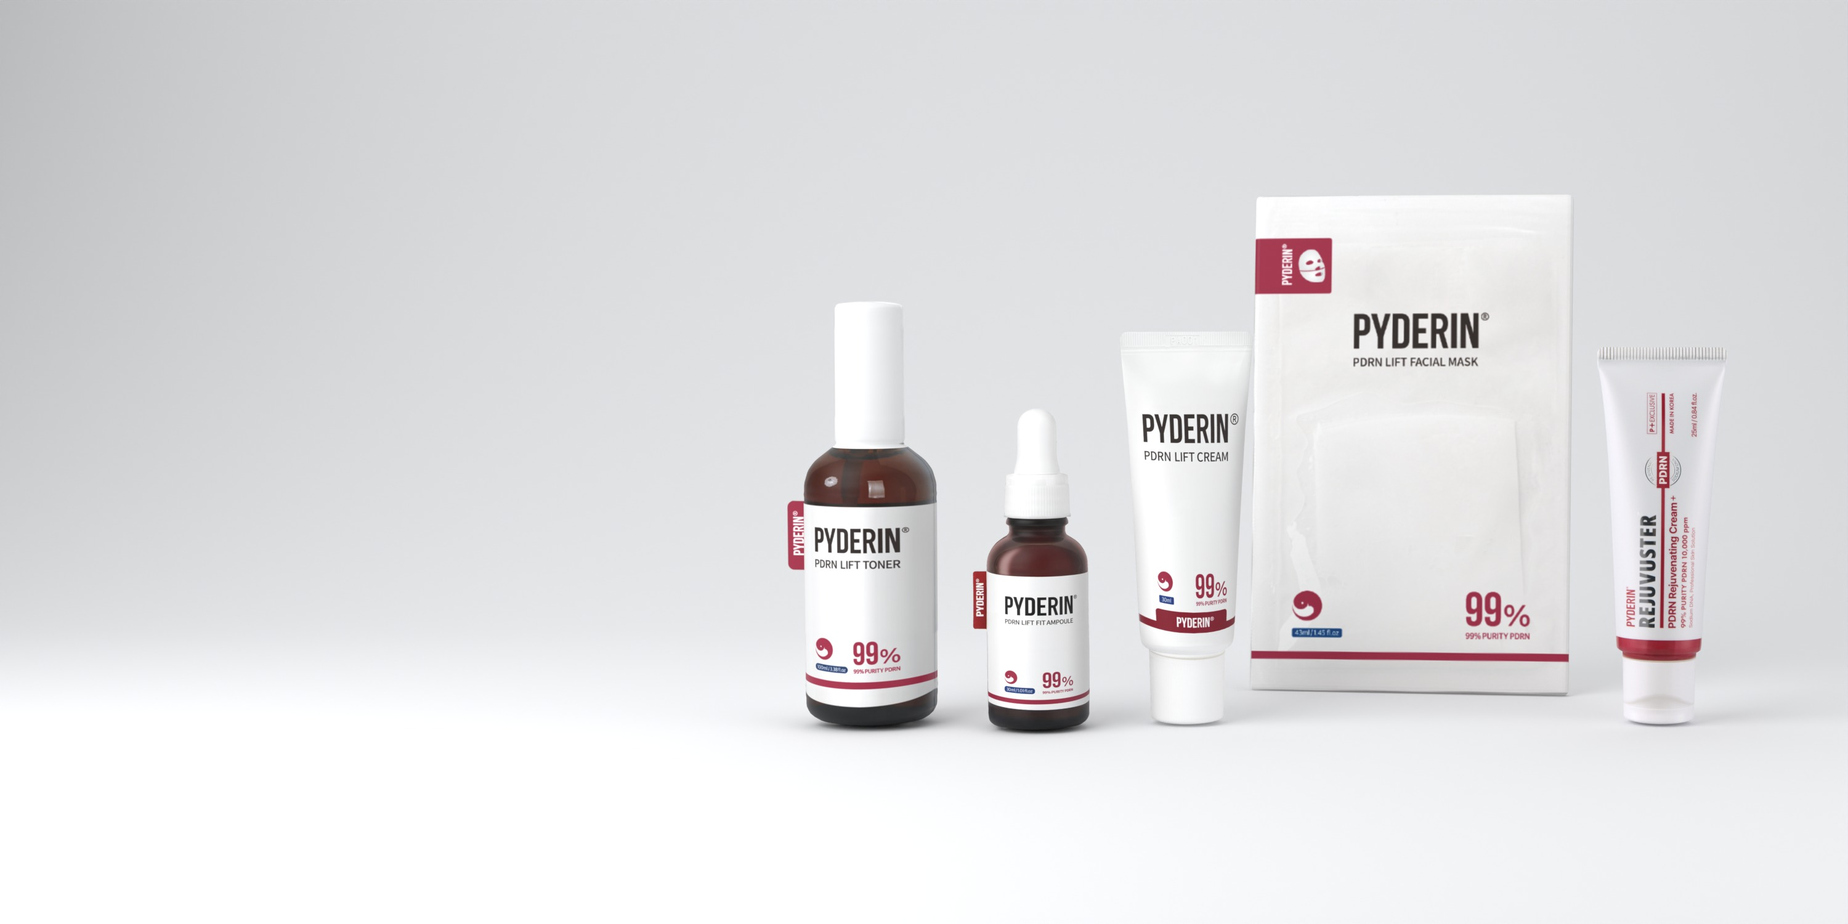
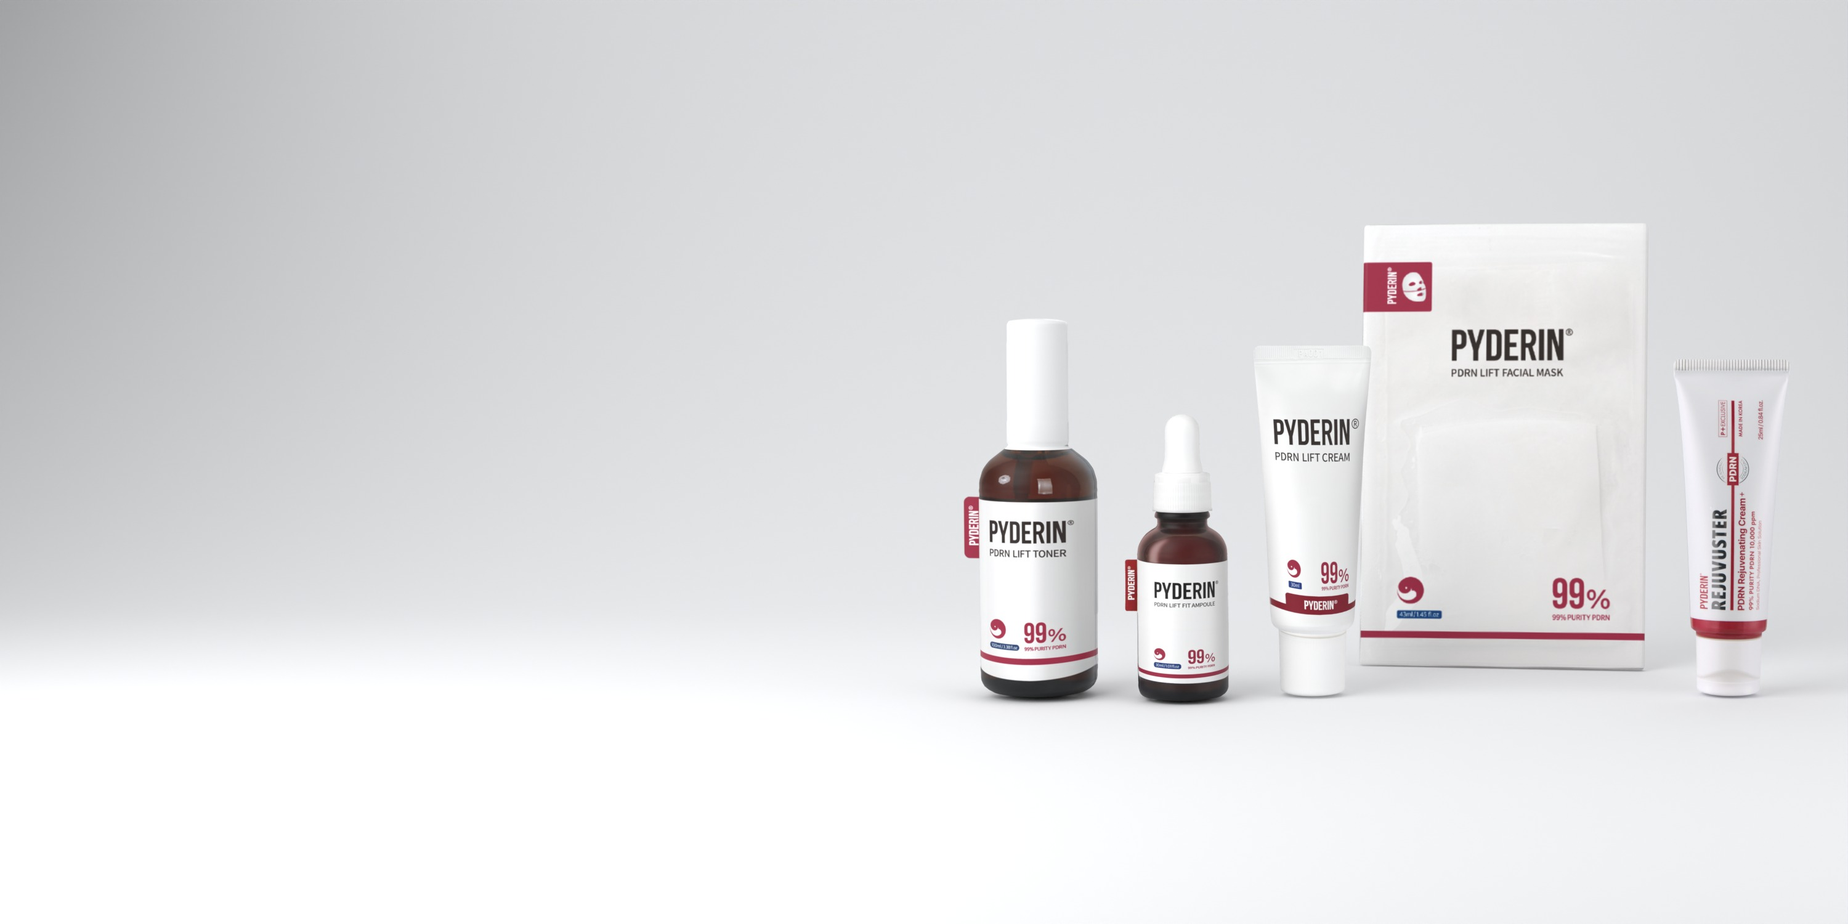
brandstore v5: 첫 화면 글·제품 간격(제품 52%부터), 줄바꿈 균형, 앰플 20,000ppm, 대표 제품 칸 크림 3D, Home 임상 분석 이미지

Changed region(s): [[0.403, 0.3067, 0.961, 0.7973], [0.682, 0.184, 0.961, 0.4293]]

diff --git a/brandstore-v5/store/lift.html b/brandstore-v5/store/lift.html
@@ -7,16 +7,17 @@
 <div class="banner rel" data-tile="첫 화면 배너 · 전체 폭 2:1(글 포함) → PDRN Lift 라인" data-d-only="1"><span class="qa-tag">3D 렌더 · 실제 라벨 사진 투영(새 토너·앰플·크림·마스크)</span><img class="d" src="img/r3_lift.jpg" alt=""><div class="tx"><div class="wrap"><div class="box"><span class="eyebrow">The Lift line</span><h1>PDRN Lift</h1><p>For elasticity and firmness. Four steps, built around 99% pure PDRN.<sup>1</sup></p><div class="cl"><div><b>+542%</b><span>Moisture after one use<br>PDRN Lift Cream<sup>2</sup></span></div><div><b>−42.31%</b><span>Nasolabial folds after 2 weeks<br>PDRN Lift Fit Ampoule<sup>3</sup></span></div></div><p class="fn">¹ Purity of Derbiome® PDRN 10K Sodium DNA. ² Korea Dermatology Research Institute, 2024.12.04–2025.01.09, 22 adult women aged 42–66. ³ Korea Dermatology Research Institute, 2024.10.08–2024.11.15, 21 adult women aged 44–65. Individual results may vary.</p></div></div></div><div class="txm" data-tile-m="모바일 첫 화면 글 · 전체 폭 → PDRN Lift 라인"><span class="eyebrow">The Lift line</span><h1>PDRN Lift</h1><p>For elasticity and firmness. Four steps, built around 99% pure PDRN.<sup>1</sup></p><div class="cl"><div><b>+542%</b><span>Moisture after one use<br>PDRN Lift Cream<sup>2</sup></span></div><div><b>−42.31%</b><span>Nasolabial folds after 2 weeks<br>PDRN Lift Fit Ampoule<sup>3</sup></span></div></div><p class="fn">¹ Purity of Derbiome® PDRN 10K Sodium DNA. ² Korea Dermatology Research Institute, 2024.12.04–2025.01.09, 22 adult women aged 42–66. ³ Korea Dermatology Research Institute, 2024.10.08–2024.11.15, 21 adult women aged 44–65. Individual results may vary.</p></div><img class="m" src="img/r3_lift_m.jpg" alt="" data-tile-m="모바일 첫 화면 사진 1:1 · 전체 폭 → PDRN Lift 라인"></div>
 <section><div class="wrap">
  <div class="head" data-tile="제목 · 전체 폭"><div><span class="eyebrow">The routine</span><h2>What each one does</h2></div><p>What goes into each step, and how to use it.</p></div>
- <div class="steps txt"><div class="rel" data-tile="4분의1 칸 → 상품 B0GX5ZGSGZ"><span class="qa-tag">3D 렌더 · 문구는 공식 상세페이지</span><img src="img/r3_toner_sq.jpg" alt=""><span class="step">STEP 01 · 100 ml</span><h3>PDRN Lift Toner</h3><p class="ing">99% pure PDRN 2,000ppm · 280 Dalton low molecular collagen · Acetyl Hexapeptide-8</p><p>After cleansing, apply an appropriate amount onto a cotton pad or your hands and gently absorb into the skin following its texture.</p></div><div class="rel" data-tile="4분의1 칸 → 상품 B0GYDZ1VTT"><span class="qa-tag">3D 렌더 · 문구는 공식 상세페이지</span><img src="img/r3_ampoule_sq.jpg" alt=""><span class="step">STEP 02 · 30 ml</span><h3>PDRN Lift Fit Ampoule</h3><p class="ing">99% pure PDRN 2,000ppm · 300 Dalton low molecular collagen · 9 types of firming peptides · 98% pure spicules</p><p>Shake the ampoule well before use. Apply an appropriate amount to the skin, then press and rub gently with your fingertips to aid absorption.</p></div><div class="rel" data-tile="4분의1 칸 → 상품 B0GXKPSZFK"><span class="qa-tag">3D 렌더 · 문구는 공식 상세페이지</span><img src="img/r3_cream_sq.jpg" alt=""><span class="step">STEP 03 · 30 ml</span><h3>PDRN Lift Cream</h3><p class="ing">99% pure PDRN 20,000ppm · Panthenol 20,000ppm · Super Centella 10,000ppm</p><p>Take an appropriate amount and apply generously to the skin, allowing it to absorb fully.</p></div><div class="rel" data-tile="4분의1 칸 → 상품 B0GZSR79Z4"><span class="qa-tag">3D 렌더 · 문구는 공식 상세페이지</span><img src="img/r3_mask_sq.jpg" alt=""><span class="step">WEEKLY · 5 sheets</span><h3>PDRN Lift Facial Mask</h3><p class="ing">99% pure PDRN 2,000ppm · 5-layer moisture blanket sheet · 15 types of fermented probiotics</p><p>Apply the lower sheet around the mouth and nose, then the upper sheet around the eyes. Relax for 30 minutes, then remove.</p></div></div>
+ <div class="steps txt"><div class="rel" data-tile="4분의1 칸 → 상품 B0GX5ZGSGZ"><span class="qa-tag">3D 렌더 · 문구는 공식 상세페이지</span><img src="img/r3_toner_sq.jpg" alt=""><span class="step">STEP 01 · 100 ml</span><h3>PDRN Lift Toner</h3><p class="ing">99% pure PDRN 2,000ppm · 280 Dalton low molecular collagen · Acetyl Hexapeptide-8</p><p>After cleansing, apply an appropriate amount onto a cotton pad or your hands and gently absorb into the skin following its texture.</p></div><div class="rel" data-tile="4분의1 칸 → 상품 B0GYDZ1VTT"><span class="qa-tag">3D 렌더 · 문구는 공식 상세페이지</span><img src="img/r3_ampoule_sq.jpg" alt=""><span class="step">STEP 02 · 30 ml</span><h3>PDRN Lift Fit Ampoule</h3><p class="ing">99% pure PDRN 20,000ppm · 300 Dalton low molecular collagen · 9 types of firming peptides · 98% pure spicules</p><p>Shake the ampoule well before use. Apply an appropriate amount to the skin, then press and rub gently with your fingertips to aid absorption.</p></div><div class="rel" data-tile="4분의1 칸 → 상품 B0GXKPSZFK"><span class="qa-tag">3D 렌더 · 문구는 공식 상세페이지</span><img src="img/r3_cream_sq.jpg" alt=""><span class="step">STEP 03 · 30 ml</span><h3>PDRN Lift Cream</h3><p class="ing">99% pure PDRN 20,000ppm · Panthenol 20,000ppm · Super Centella 10,000ppm</p><p>Take an appropriate amount and apply generously to the skin, allowing it to absorb fully.</p></div><div class="rel" data-tile="4분의1 칸 → 상품 B0GZSR79Z4"><span class="qa-tag">3D 렌더 · 문구는 공식 상세페이지</span><img src="img/r3_mask_sq.jpg" alt=""><span class="step">WEEKLY · 5 sheets</span><h3>PDRN Lift Facial Mask</h3><p class="ing">99% pure PDRN 2,000ppm · 5-layer moisture blanket sheet · 15 types of fermented probiotics</p><p>Apply the lower sheet around the mouth and nose, then the upper sheet around the eyes. Relax for 30 minutes, then remove.</p></div></div>
 </div></section>
 <section style="padding-top:0"><div class="wrap">
  <div class="head" data-tile="제목 · 전체 폭"><div><span class="eyebrow">Clinical results</span><h2>Tested by a Korean dermatology research institute</h2></div></div>
  <div class="clin rel" data-tile="임상 표 · 전체 폭"><span class="qa-tag">공식 상세페이지 수치(Home과 같은 보고서로 통일)</span><div class="r h"><span>Product</span><span>Moisture, 10th layer of the stratum corneum · after one use</span><span>Nasolabial folds · after 2 weeks</span><span>Study</span></div><div class="r"><b>PDRN Lift Fit Ampoule</b><span class="num" data-l="Moisture">+445%</span><span class="num" data-l="Nasolabial folds">−42.31%</span><span class="src" data-l="Study">a</span></div><div class="r"><b>PDRN Lift Cream</b><span class="num" data-l="Moisture">+542%</span><span class="num" data-l="Nasolabial folds">−32.39%</span><span class="src" data-l="Study">b</span></div><div class="r"><b>PDRN Lift Facial Mask</b><span class="num" data-l="Moisture">+462%</span><span class="num" data-l="Nasolabial folds">−39.05%</span><span class="src" data-l="Study">a</span></div></div><p class="fn" style="margin-top:12px">a) Korea Dermatology Research Institute, 2024.10.08–2024.11.15, 21 adult women aged 44–65. b) Korea Dermatology Research Institute, 2024.12.04–2025.01.09, 22 adult women aged 42–66. Individual results may vary.</p>
 </div></section>
 <section style="padding-top:0"><div class="wrap"><div class="sig" data-tile="대표 제품 · 전체 폭 → 링크: 리프트 크림 B0GXKPSZFK">
+ <div class="sig-im rel"><span class="qa-tag">3D 렌더 · 실제 라벨 투영</span><img src="img/r3_cream_sig.jpg" alt="PDRN Lift Cream"></div>
  <div><span class="eyebrow">The signature</span><h2>PDRN Lift Cream</h2><p>Wrinkle &amp; firming lifting cream that tightens and lifts sagging skin.</p>
-  <p style="margin-top:10px;color:var(--sub);font-size:14px">For all skin types concerned with loss of elasticity and dryness.</p><span class="btn" style="margin-top:22px">Shop now</span></div>
- <div class="nums"><div><b class="num">20,000 ppm</b><span>99% pure PDRN</span></div><div><b class="num">20,000 ppm</b><span>Panthenol</span></div><div><b class="num">10,000 ppm</b><span>Super Centella</span></div></div>
+  <p style="margin-top:10px;color:var(--sub);font-size:14px">For all skin types concerned with loss of elasticity and dryness.</p><div class="nums" style="margin-top:22px"><div><b class="num">20,000 ppm</b><span>99% pure PDRN</span></div><div><b class="num">20,000 ppm</b><span>Panthenol</span></div><div><b class="num">10,000 ppm</b><span>Super Centella</span></div></div>
+  <span class="btn" style="margin-top:24px">Shop now</span></div>
 </div></div></section>
 <section style="padding-top:0"><div class="wrap"><div class="explore one"><a href="rejuvuster.html" data-tile="이동 칸 → 링크: REJUVUSTER 페이지"><img src="img/r3_rj_m.jpg" alt=""><div class="cap"><div><span class="eyebrow">The Korean pharmacy line</span><h3>REJUVUSTER</h3></div><span class="btn">Explore</span></div></a></div></div></section>
 

diff --git a/brandstore-v5/store/shop.html b/brandstore-v5/store/shop.html
@@ -9,7 +9,7 @@
 <section style="padding-top:0"><div class="wrap"><div class="cards"><a class="card" href="#" data-tile="4분의1 칸 → 상품 B0GX5ZGSGZ"><div class="im"><span class="st">STEP 01</span><img src="img/r3_toner_sq.jpg" alt=""></div><h4>PDRN Lift Toner</h4><div class="d">Hydrates and preps skin for what comes next.</div><div class="s"><span>100 ml</span><span>Shop now</span></div></a><a class="card" href="#" data-tile="4분의1 칸 → 상품 B0GYDZ1VTT"><div class="im"><span class="st">STEP 02</span><img src="img/r3_ampoule_sq.jpg" alt=""></div><h4>PDRN Lift Fit Ampoule</h4><div class="d">A lightweight, concentrated PDRN serum.</div><div class="s"><span>30 ml</span><span>Shop now</span></div></a><a class="card" href="#" data-tile="4분의1 칸 → 상품 B0GXKPSZFK"><div class="im"><span class="st">STEP 03</span><span class="tag">Signature</span><img src="img/r3_cream_sq.jpg" alt=""></div><h4>PDRN Lift Cream</h4><div class="d">Firming cream with 20,000 ppm salmon DNA PDRN.</div><div class="s"><span>30 ml</span><span>Shop now</span></div></a><a class="card" href="#" data-tile="4분의1 칸 → 상품 B0GZSR79Z4"><div class="im"><span class="st">WEEKLY</span><img src="img/r3_mask_sq.jpg" alt=""></div><h4>PDRN Lift Facial Mask</h4><div class="d">A PDRN sheet mask for weekly care.</div><div class="s"><span>5 sheets</span><span>Shop now</span></div></a></div><div class="rj" data-tile="전체 폭 칸 1장 → 상품 B0GYDB5H9X"><a class="card" href="#"><div class="im"><span class="tag">Pharmacy line</span><img src="img/r3_rj_sq.jpg" alt=""></div><h4>REJUVUSTER Cream+</h4><div class="d">The PDRN cream carried by pharmacies across Korea.</div><div class="s"><span>25 ml</span><span>Shop now</span></div></a><div class="about"><span class="eyebrow">The Korean pharmacy line</span><h3>REJUVUSTER</h3><p>10,000 ppm PDRN with niacinamide and ceramide.</p></div></div></div></section>
 <section style="padding-top:0"><div class="wrap">
  <div class="head" data-tile="제목 · 전체 폭"><div><span class="eyebrow">Compare</span><h2>Side by side</h2></div><p>As stated on each product's detail page.</p></div>
- <div class="cmp"><div class="r h" data-tile="비교표 머리 · 전체 폭"><span>Product</span><span>Use</span><span>Size</span><span>99% pure PDRN</span><span>Key ingredients</span></div><a class="r rel" href="#" data-tile="비교표 줄 · 전체 폭 → 상품 B0GX5ZGSGZ"><span class="qa-tag warn">공식 상세페이지 2,000ppm · 아마존 상품명은 20000ppm(리스팅 수정 필요)</span><b><img src="img/r3_toner_sq.jpg" alt="">PDRN Lift Toner</b><span data-l="Use">Step 01</span><span data-l="Size">100 ml</span><span data-l="PDRN" class="num">2,000 ppm</span><span data-l="Key ingredients">280 Dalton low molecular collagen, Acetyl Hexapeptide-8, 10 types of fermented probiotics</span></a><a class="r rel" href="#" data-tile="비교표 줄 · 전체 폭 → 상품 B0GYDZ1VTT"><span class="qa-tag warn">공식 상세페이지 2,000ppm · 아마존 상품명은 20000ppm(리스팅 수정 필요)</span><b><img src="img/r3_ampoule_sq.jpg" alt="">PDRN Lift Fit Ampoule</b><span data-l="Use">Step 02</span><span data-l="Size">30 ml</span><span data-l="PDRN" class="num">2,000 ppm</span><span data-l="Key ingredients">300 Dalton low molecular collagen, 9 types of firming peptides, 10 types of fermented probiotics</span></a><a class="r rel" href="#" data-tile="비교표 줄 · 전체 폭 → 상품 B0GXKPSZFK"><span class="qa-tag">공식 영문 상세페이지 표기</span><b><img src="img/r3_cream_sq.jpg" alt="">PDRN Lift Cream</b><span data-l="Use">Step 03</span><span data-l="Size">30 ml</span><span data-l="PDRN" class="num">20,000 ppm</span><span data-l="Key ingredients">Panthenol 20,000ppm, Super Centella 10,000ppm, low molecular collagen, Acetyl Hexapeptide-8</span></a><a class="r rel" href="#" data-tile="비교표 줄 · 전체 폭 → 상품 B0GZSR79Z4"><span class="qa-tag">공식 영문 상세페이지 표기</span><b><img src="img/r3_mask_sq.jpg" alt="">PDRN Lift Facial Mask</b><span data-l="Use">Weekly</span><span data-l="Size">5 sheets</span><span data-l="PDRN" class="num">2,000 ppm</span><span data-l="Key ingredients">Low molecular collagen, Acetyl Hexapeptide-8, 15 types of fermented probiotics</span></a><a class="r rel" href="#" data-tile="비교표 줄 · 전체 폭 → 상품 B0GYDB5H9X"><span class="qa-tag">공식 영문 상세페이지 표기</span><b><img src="img/r3_rj_sq.jpg" alt="">REJUVUSTER Cream+</b><span data-l="Use">Pharmacy line</span><span data-l="Size">25 ml</span><span data-l="PDRN" class="num">10,000 ppm</span><span data-l="Key ingredients">SECOLGI, 11-strain microbiome complex, panthenol · ectoine · squalane, Cica complex</span></a></div><p class="fn" style="margin-top:12px">99% pure PDRN refers to the purity of Derbiome® PDRN 10K Sodium DNA.</p>
+ <div class="cmp"><div class="r h" data-tile="비교표 머리 · 전체 폭"><span>Product</span><span>Use</span><span>Size</span><span>99% pure PDRN</span><span>Key ingredients</span></div><a class="r rel" href="#" data-tile="비교표 줄 · 전체 폭 → 상품 B0GX5ZGSGZ"><span class="qa-tag warn">토너: 상세페이지 2,000ppm · 아마존 상품명 20000ppm → 확인 필요</span><b><img src="img/r3_toner_sq.jpg" alt="">PDRN Lift Toner</b><span data-l="Use">Step 01</span><span data-l="Size">100 ml</span><span data-l="PDRN" class="num">2,000 ppm</span><span data-l="Key ingredients">280 Dalton low molecular collagen, Acetyl Hexapeptide-8, 10 types of fermented probiotics</span></a><a class="r rel" href="#" data-tile="비교표 줄 · 전체 폭 → 상품 B0GYDZ1VTT"><span class="qa-tag">공식 영문 상세페이지 표기</span><b><img src="img/r3_ampoule_sq.jpg" alt="">PDRN Lift Fit Ampoule</b><span data-l="Use">Step 02</span><span data-l="Size">30 ml</span><span data-l="PDRN" class="num">20,000 ppm</span><span data-l="Key ingredients">300 Dalton low molecular collagen, 9 types of firming peptides, 10 types of fermented probiotics</span></a><a class="r rel" href="#" data-tile="비교표 줄 · 전체 폭 → 상품 B0GXKPSZFK"><span class="qa-tag">공식 영문 상세페이지 표기</span><b><img src="img/r3_cream_sq.jpg" alt="">PDRN Lift Cream</b><span data-l="Use">Step 03</span><span data-l="Size">30 ml</span><span data-l="PDRN" class="num">20,000 ppm</span><span data-l="Key ingredients">Panthenol 20,000ppm, Super Centella 10,000ppm, low molecular collagen, Acetyl Hexapeptide-8</span></a><a class="r rel" href="#" data-tile="비교표 줄 · 전체 폭 → 상품 B0GZSR79Z4"><span class="qa-tag">공식 영문 상세페이지 표기</span><b><img src="img/r3_mask_sq.jpg" alt="">PDRN Lift Facial Mask</b><span data-l="Use">Weekly</span><span data-l="Size">5 sheets</span><span data-l="PDRN" class="num">2,000 ppm</span><span data-l="Key ingredients">Low molecular collagen, Acetyl Hexapeptide-8, 15 types of fermented probiotics</span></a><a class="r rel" href="#" data-tile="비교표 줄 · 전체 폭 → 상품 B0GYDB5H9X"><span class="qa-tag">공식 영문 상세페이지 표기</span><b><img src="img/r3_rj_sq.jpg" alt="">REJUVUSTER Cream+</b><span data-l="Use">Pharmacy line</span><span data-l="Size">25 ml</span><span data-l="PDRN" class="num">10,000 ppm</span><span data-l="Key ingredients">SECOLGI, 11-strain microbiome complex, panthenol · ectoine · squalane, Cica complex</span></a></div><p class="fn" style="margin-top:12px">99% pure PDRN refers to the purity of Derbiome® PDRN 10K Sodium DNA.</p>
 </div></section>
 
 </body></html>

diff --git a/brandstore-v5/store/style.css b/brandstore-v5/store/style.css
@@ -70,7 +70,7 @@ section{padding:80px 0}
 .feat .txt{padding:72px max(40px,calc((100vw - 1200px)/2 + 40px)) 72px 56px}
 .feat h2{font-size:40px;line-height:1.05;margin-bottom:10px}
 .res{margin:26px 0 24px;border-top:1px solid var(--line)}
-.res div{display:grid;grid-template-columns:150px 1fr;gap:20px;align-items:baseline;padding:16px 0;border-bottom:1px solid var(--line)}
+.res div{display:grid;grid-template-columns:200px 1fr;gap:24px;align-items:baseline;padding:16px 0;border-bottom:1px solid var(--line)}
 .res .num{font-size:50px;line-height:1}.res p{font-size:13px;line-height:1.5}
 /* 병원·약국 채널 */
 .chan .big{display:flex;gap:40px;align-items:end;justify-content:space-between;margin-bottom:32px;flex-wrap:wrap}
@@ -107,12 +107,13 @@ section{padding:80px 0}
 .howto{display:grid;grid-template-columns:repeat(3,1fr);gap:24px;border-top:1px solid var(--ink);padding-top:22px}.howto p{font-size:14px}
 .faq{border-top:1px solid var(--ink)}.faq div{padding:20px 0;border-bottom:1px solid var(--line)}.faq b{display:block;font:600 19px Archivo;font-stretch:80%;color:var(--ink);margin-bottom:6px}.faq p{font-size:14px;max-width:820px}
 .steps.txt img{aspect-ratio:1;object-fit:cover;background:#f1f2f4}.steps.txt .step{margin-top:14px}
-.sig{display:grid;grid-template-columns:1fr 1fr;gap:56px;align-items:center;border-top:1px solid var(--line);padding-top:44px}.sig h2{font-size:42px;line-height:1.02;margin-bottom:12px}.sig .nums{margin:0}
+.sig{display:grid;grid-template-columns:1fr 1fr;gap:56px;align-items:center;border-top:1px solid var(--line);padding-top:44px}.sig-im img{aspect-ratio:1;object-fit:cover}.sig .nums .num{font-size:clamp(40px,4vw,60px)}.sig h2{font-size:42px;line-height:1.02;margin-bottom:12px}.sig .nums{margin:0}
 .banner{position:relative;background:#f1f2f4}.banner img.d{aspect-ratio:2/1;object-fit:cover}.banner .tx{position:absolute;inset:0;display:flex;align-items:center}.banner .tx .wrap{width:100%}
-.banner .box{max-width:440px}.banner h1{font-size:clamp(44px,4.6vw,68px);line-height:1;margin-bottom:14px}.banner p{font-size:15px;color:var(--ink)}.banner .sm{margin-top:10px;font-size:14px;color:var(--sub)}
-.banner .kv{margin-top:14px;font-size:14px}.banner .kv b{font:600 20px Archivo;font-stretch:75%}.banner .fn{margin-top:14px;font-size:11px;line-height:1.5;color:var(--sub)}.banner .btn{margin-top:20px}
+.banner .box{max-width:400px}.banner h1{font-size:clamp(40px,3.9vw,58px);line-height:1.04;margin-bottom:20px;text-wrap:balance}.banner p{font-size:15px;line-height:1.7;color:var(--ink);text-wrap:pretty}.banner .sm{margin-top:12px;font-size:14px;color:var(--sub)}.banner .eyebrow{margin-bottom:14px}
+.banner .kv{margin-top:14px;font-size:14px}.banner .kv b{font:600 20px Archivo;font-stretch:75%}.banner .fn{margin-top:18px;font-size:11px;line-height:1.6;color:var(--sub)}.banner .btn{margin-top:20px}
 .banner .txm,.banner img.m{display:none}
-.banner .cl{display:flex;gap:28px;margin:18px 0 4px;border-top:1px solid var(--line);padding-top:14px}.banner .cl b{display:block;font:600 40px/1 Archivo;font-stretch:75%;color:var(--ink)}.banner .cl span{display:block;margin-top:6px;font-size:12px;line-height:1.4;color:var(--sub)}
+.banner .cl{display:flex;gap:36px;margin:26px 0 6px;border-top:1px solid var(--line);padding-top:20px}.banner .cl b{display:block;font:600 38px/1 Archivo;font-stretch:75%;color:var(--ink)}.banner .cl span{display:block;margin-top:8px;font-size:12px;line-height:1.5;color:var(--sub)}
+.feat .clinimg{display:flex;flex-direction:column;align-items:center;justify-content:center;gap:10px;padding:56px 32px;background:#fff}.feat .clinimg img{width:min(100%,460px);height:auto;object-fit:contain;padding:0}.feat .clinimg p{width:min(100%,460px);font-size:13px;color:var(--sub);margin-top:14px}.feat .clinimg p b{font:600 17px Archivo;font-stretch:75%;color:var(--ink)}
 /* 다른 라인으로 */
 .explore{display:grid;grid-template-columns:1fr 1fr;gap:24px}
 .explore img{aspect-ratio:3/2;object-fit:cover}.explore.sq img{aspect-ratio:1}
@@ -135,5 +136,6 @@ section{padding:80px 0}
  .facts,.facts.eight{grid-template-columns:1fr 1fr}.howto{grid-template-columns:1fr}.clin .r{grid-template-columns:1fr 1fr 40px;gap:6px 12px;align-items:end}.clin .r b{grid-column:1/-1}.clin .r.h{display:none}.clin .num{font-size:26px}.clin .r span[data-l]::before{content:attr(data-l);display:block;font:400 10px Geologica;letter-spacing:.1em;text-transform:uppercase;color:var(--sub);margin-bottom:4px}
  .sig{grid-template-columns:1fr;gap:24px}.sig h2{font-size:30px}
  .banner img.d,.banner .tx{display:none}.banner .txm{display:block;padding:34px 16px 26px;background:#fff}.banner img.m{display:block;aspect-ratio:1}
+ .feat .clinimg{padding:32px 16px}.feat .clinimg img{width:min(100%,220px)}.feat .clinimg p{width:min(100%,220px)}
  .explore.one a{grid-template-columns:1fr}.cmp .r{grid-template-columns:1fr 1fr;gap:6px 12px}.cmp .r b{grid-column:1/-1}.cmp .r.h{display:none}.cmp .r span[data-l]::before{content:attr(data-l);display:block;font:400 10px Geologica;letter-spacing:.1em;text-transform:uppercase;color:var(--sub)}.explore.one .cap{padding:20px}.ptitle{padding:44px 0 0}.fn{font-size:12px}
 }

diff --git a/brandstore-v5/store/index.html b/brandstore-v5/store/index.html
@@ -28,7 +28,7 @@
 </div></section>
 
 <div class="feat">
- <div class="im rel" data-tile="임상 사진 · 절반 칸 → 링크: 리프트 크림 B0GXKPSZFK"><span class="qa-tag">실사 스튜디오</span><img src="img/lift-tilt.jpg" alt=""></div>
+ <div class="im rel clinimg" data-tile="임상 분석 이미지 · 절반 칸 → 링크: 리프트 크림 B0GXKPSZFK"><span class="qa-tag">공식 상세페이지 주름 분석 이미지(원본 가로 820px, 더 큰 원본 없음)</span><p><b>Nasolabial folds</b> · PDRN Lift Cream</p><img src="img/clin_nasolabial.png" alt="Nasolabial folds before use, after 1 use and after 2 weeks"><p><b>Forehead wrinkles</b> · PDRN Lift Cream</p><img src="img/clin_forehead.png" alt="Forehead wrinkles before use, after 1 use and after 2 weeks"></div>
  <div class="txt rel" data-tile="임상 글 · 절반 칸 → 링크: 리프트 크림 B0GXKPSZFK" data-d-only="1"><span class="qa-tag">공식 상세페이지 크림 임상(2024.12~2025.01) 기준</span>
   <div data-tile-m="모바일: 임상 글 1 · 전체 폭 → 링크: 리프트 크림 B0GXKPSZFK"><span class="eyebrow">Clinical results · PDRN Lift Cream</span><h2>Tested by a Korean dermatology research institute.</h2>
   <div class="res">
